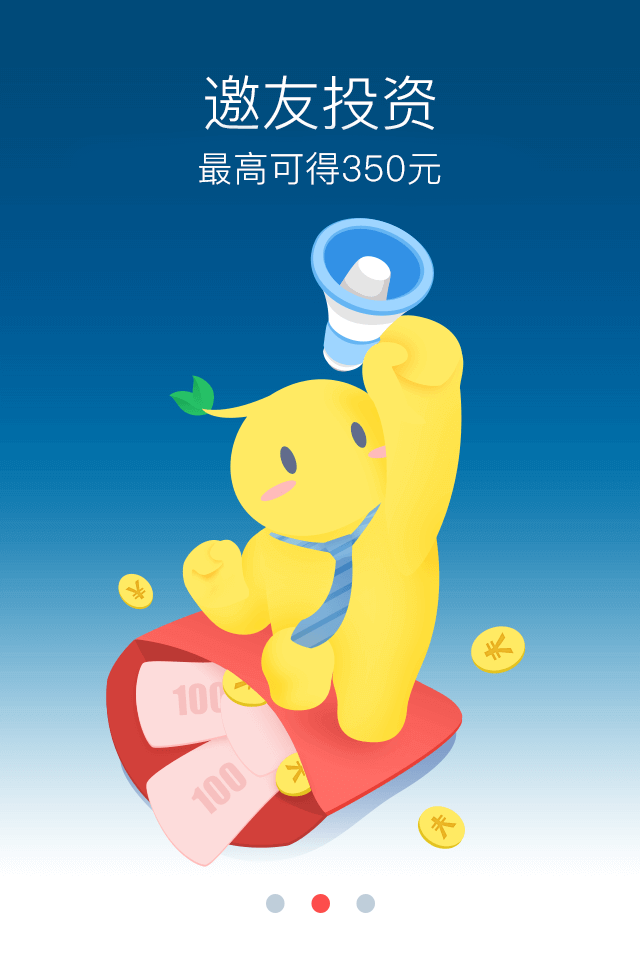
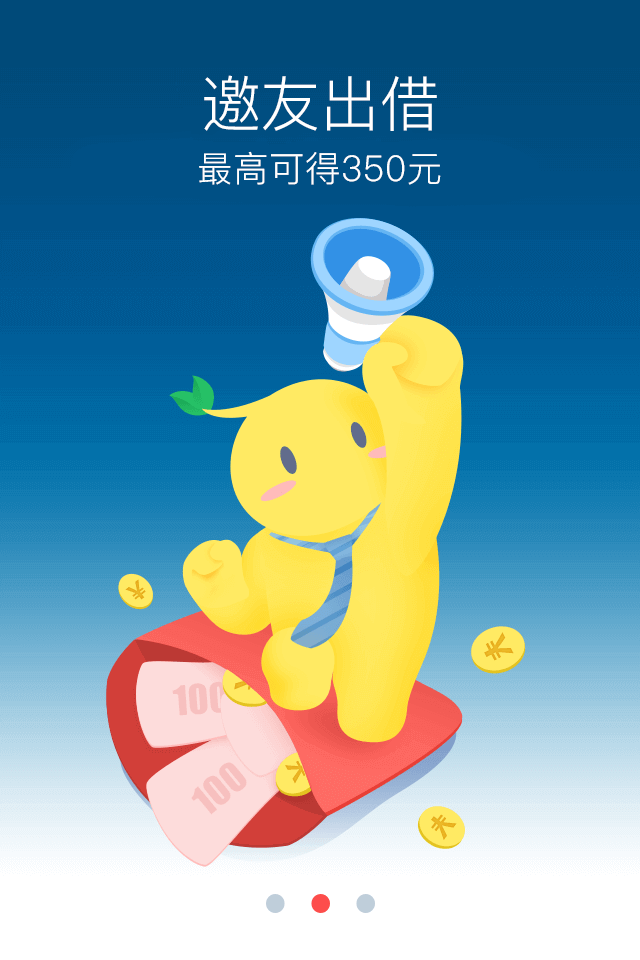
微金 使用优惠券  计算器 修改文案  以及修改引导页第二张

Changed region(s): [[0.4688, 0.0625, 0.6875, 0.1562], [0.3125, 0.0625, 0.4062, 0.1562], [0.4375, 0.0625, 0.4688, 0.125]]

diff --git a/JRGC/BidViewController/UCFSelectPayBackController.m b/JRGC/BidViewController/UCFSelectPayBackController.m
@@ -126,6 +126,7 @@
     self.navigationItem.titleView = _segmentedCtrl;
     
     headView = [[CoupleHeadView alloc] initWithFrame:CGRectMake(0, 0, ScreenWidth, 162.0f)];
+    headView.accoutType = self.accoutType; 
     headView.backgroundColor = [UIColor whiteColor];
     headView.delegate = self;
     headView.inputMoneyTextFieldLable.delegate = self;
@@ -189,7 +190,12 @@
 - (void)changeFootViewShow
 {
     if (self.listType == 1) {
+        
         NSString *showStr = @"投资按月/季等额还款项目，最终返息获得工豆需要乘以0.56。0.56为借款方占用投资方自己的使用率";
+        if (self.accoutType == SelectAccoutTypeP2P)
+        {
+            showStr = @"出借按月/季等额还款项目，最终返息获得工豆需要乘以0.56。0.56为借款方占用出借方自己的使用率";
+        }
         CGSize size = [Common getStrHeightWithStr:showStr AndStrFont:13 AndWidth:ScreenWidth - 30];
         slectView.keYongBaseView.frame = CGRectMake(0, 0, ScreenWidth, 40 + size.height);
         self.beansTableView.frame = CGRectMake(ScreenWidth, 0, ScreenWidth, ScreenHeight - 64 - 162 - CGRectGetHeight(slectView.frame));
@@ -201,7 +207,7 @@
 
         slectView.showNumSelectLabe.textAlignment = NSTextAlignmentLeft;
         slectView.showNumSelectLabe.frame = CGRectMake(15, 10, ScreenWidth - 30, 15);
-        slectView.showNumSelectLabe.text = @"投资¥0.00，可返息工豆¥0.00";
+        slectView.showNumSelectLabe.text =  self.accoutType == SelectAccoutTypeP2P ? @"出借¥0.00，可返息工豆¥0.00": @"投资¥0.00，可返息工豆¥0.00";
         slectView.showNumTipLab.frame = CGRectMake(15, CGRectGetMaxY(slectView.showNumSelectLabe.frame) + 5 , ScreenWidth - 30, size.height);
         slectView.showNumTipLab.text = showStr;
         slectView.sureBtn.frame = CGRectMake(15, CGRectGetMaxY(slectView.keYongBaseView.frame) + 10, ScreenWidth - 30, 37);
@@ -327,6 +333,7 @@
 }
 - (BOOL)checkIsLegal
 {
+    NSString *isP2PTipStr =  self.accoutType == SelectAccoutTypeP2P  ? @"出借":@"投资";
     if (self.listType == 1) {
         //投资金额
         NSString *couStr = [NSString stringWithFormat:@"%.2f",self.interestPrdaimSum];
@@ -338,9 +345,9 @@
             headView.needsInvestLabel.textColor = [UIColor whiteColor];
             slectView.showNumSelectLabe.textColor = UIColorWithRGB(0x999999);
             NSString *returnMoney = (self.beansSelectArray.count == 0 ? @"0.00" : [NSString stringWithFormat:@"%.2lf",self.interestSum]);
-            NSString *totalStr = [NSString stringWithFormat:@"投资 ¥%@,可返息工豆 ¥%@",[UCFToolsMehod AddComma:[NSString stringWithFormat:@"%.2lf",self.touZiMoney]],[UCFToolsMehod AddComma:returnMoney]];
+            NSString *totalStr = [NSString stringWithFormat:@"%@ ¥%@,可返息工豆 ¥%@",isP2PTipStr,[UCFToolsMehod AddComma:[NSString stringWithFormat:@"%.2lf",self.touZiMoney]],[UCFToolsMehod AddComma:returnMoney]];
             slectView.showNumSelectLabe.text = totalStr;
-            NSRange range1 = [totalStr rangeOfString:[NSString stringWithFormat:@"投资 ¥%@",[UCFToolsMehod AddComma:[NSString stringWithFormat:@"%.2lf",self.touZiMoney]]]];
+            NSRange range1 = [totalStr rangeOfString:[NSString stringWithFormat:@"%@ ¥%@",isP2PTipStr,[UCFToolsMehod AddComma:[NSString stringWithFormat:@"%.2lf",self.touZiMoney]]]];
             range1.location +=3;
             range1.length -= 3;
             NSRange range2 = [totalStr rangeOfString:[NSString stringWithFormat:@"工豆 ¥%@",[UCFToolsMehod AddComma:returnMoney]]];
@@ -356,7 +363,7 @@
         } else {
             headView.needsInvestLabel.textColor = UIColorWithRGB(0xf03b43);
             slectView.showNumSelectLabe.textColor = UIColorWithRGB(0xf03b43);
-            slectView.showNumSelectLabe.text = [NSString stringWithFormat:@"需投资金额不能大于可投金额!"];
+            slectView.showNumSelectLabe.text = [NSString stringWithFormat:@"需%@金额不能大于可投金额!",isP2PTipStr];
             return YES;
         }
     } else {
@@ -396,7 +403,7 @@
         } else {
             headView.needsInvestLabel.textColor = UIColorWithRGB(0xf03b43);
             slectView.showNumSelectLabe.textColor = UIColorWithRGB(0xf03b43);
-            slectView.showNumSelectLabe.text = [NSString stringWithFormat:@"需投资金额不能大于可投金额!"];
+            slectView.showNumSelectLabe.text = [NSString stringWithFormat:@"需%@金额不能大于可投金额!",isP2PTipStr];
             return YES;
         }
     }
@@ -513,6 +520,7 @@
             cell = [[SelectCoupleCell  alloc] initWithStyle:UITableViewCellStyleDefault reuseIdentifier:cellStr1];
             cell.selectionStyle = UITableViewCellSelectionStyleBlue;
         }
+        cell.accoutType = self.accoutType;
         cell.listType = 1;
         cell.selectedBtn.tag = indexPath.row;
         NSDictionary *dict = [self.beansArray objectAtIndex:indexPath.row];
@@ -534,6 +542,7 @@
             cell = [[SelectCoupleCell  alloc] initWithStyle:UITableViewCellStyleDefault reuseIdentifier:cellStr2];
             cell.selectionStyle = UITableViewCellSelectionStyleNone;
         }
+        cell.accoutType = self.accoutType;
         cell.listType = 0;
         cell.selectedBtn.tag = indexPath.row;
         NSDictionary *dict = [self.youHuiArray objectAtIndex:indexPath.row];
@@ -585,9 +594,13 @@
         [[NetworkModule sharedNetworkModule] postReq:strParameters tag:kSXtagSelectBeansInterest owner:self Type:self.accoutType];
     }
 }
+-(void)beginPost:(kSXTag)tag
+{
+     [MBProgressHUD showHUDAddedTo:self.view animated:YES];
+}
 - (void)endPost:(id)result tag:(NSNumber *)tag
 {
-//    [MBProgressHUD hideAllHUDsForView:self.view animated:YES];
+    [MBProgressHUD hideAllHUDsForView:self.view animated:YES];
     if(tag.intValue == kSXtagSelectBeanRecord)
     {
         [self.youhuiTableView.header endRefreshing];

diff --git a/JRGC/BidViewController/CoupleHeadView.m b/JRGC/BidViewController/CoupleHeadView.m
@@ -25,14 +25,14 @@
     headBaseView.backgroundColor = UIColorWithRGB(0x5b6993);
     [self addSubview:headBaseView];
     
-    UILabel *needInvestMoney = [[UILabel alloc] init];
-    needInvestMoney.frame = CGRectMake(0, 15, ScreenWidth/2, 14.0f);
-    needInvestMoney.textAlignment = NSTextAlignmentCenter;
-    needInvestMoney.textColor = [UIColor whiteColor];
-    needInvestMoney.font = [UIFont systemFontOfSize:14.0f];
-    needInvestMoney.text = @"需投资金额";
-    needInvestMoney.backgroundColor = [UIColor clearColor];
-    [headBaseView addSubview:needInvestMoney];
+    _needInvestMoney = [[UILabel alloc] init];
+    _needInvestMoney.frame = CGRectMake(0, 15, ScreenWidth/2, 14.0f);
+    _needInvestMoney.textAlignment = NSTextAlignmentCenter;
+    _needInvestMoney.textColor = [UIColor whiteColor];
+    _needInvestMoney.font = [UIFont systemFontOfSize:14.0f];
+    _needInvestMoney.text = _accoutType == SelectAccoutTypeP2P ?@"需出借金额": @"需投资金额";
+    _needInvestMoney.backgroundColor = [UIColor clearColor];
+    [headBaseView addSubview:_needInvestMoney];
     
     UILabel *canInvestMoney = [[UILabel alloc] init];
     canInvestMoney.frame = CGRectMake(ScreenWidth/2, 15, ScreenWidth/2, 14.0f);
@@ -117,6 +117,12 @@
     _allTouziBtn.titleLabel.font = [UIFont boldSystemFontOfSize:15.0f];
     [self addSubview:_allTouziBtn];
 }
+- (void)layoutSubviews
+{
+    [super layoutSubviews];
+    _needInvestMoney.text = _accoutType == SelectAccoutTypeP2P ? @"需出借金额": @"需投资金额";
+}
+
 - (void)gotoPay:(UIButton *)button
 {
     if (self.delegate && [self.delegate respondsToSelector:@selector(allInvestOrGotoPay:)]) {

diff --git a/JRGC/BidViewController/SelectCoupleCell.m b/JRGC/BidViewController/SelectCoupleCell.m
@@ -113,6 +113,7 @@
 }
 - (void)layoutSubviews
 {
+    NSString  *titleStr =  self.accoutType == SelectAccoutTypeP2P ? @"出借":@"投资";
     NSInteger statue = [[self.dataDict objectForKey:@"status"]integerValue];
     if (statue == 0 || statue == 2)
     {
@@ -140,7 +141,8 @@
                 } else {
                     _baseImageView.image = [UIImage imageNamed:@"invest_bg_coupon_common.png"];
                 }
-                _investLimitLab.text = [NSString stringWithFormat:@"投资期限≥%ld天可用",(long)inverstPeriod];
+               
+                _investLimitLab.text = [NSString stringWithFormat:@"%@期限≥%ld天可用",titleStr,(long)inverstPeriod];
                 _investLimitLab.textColor = UIColorWithRGB(0x999999);
             }
 
@@ -176,7 +178,7 @@
             _moneyLabel.attributedText = attributeMoneyString;
         }
         NSString *limte = [UCFToolsMehod AddComma:[NSString stringWithFormat:@"%d",[[self.dataDict objectForKey:@"investMultip"] intValue]]];
-        _useLimtLabel.text = [NSString stringWithFormat:@"投资¥%@可用",limte];
+        _useLimtLabel.text = [NSString stringWithFormat:@"%@¥%@可用",titleStr,limte];
         NSString *sourStr =[NSString stringWithFormat:@"%@",[self.dataDict objectForKey:@"remark"]];
         _sourceLabel.text = sourStr;
         NSString *endTime = [NSString stringWithFormat:@"有效期 %@",[self.dataDict objectForKey:@"overdueTime"]];

diff --git a/JRGC/BidViewController/CalculatorView.m b/JRGC/BidViewController/CalculatorView.m
@@ -201,6 +201,14 @@
     [calculatorBtn addTarget:self action:@selector(calculateBegin:) forControlEvents:UIControlEventTouchUpInside];
     [baseView addSubview:calculatorBtn];
 }
+-(void)layoutSubviews
+{
+    [super layoutSubviews];
+     jrgcProfitLab.text =  _accoutType == SelectAccoutTypeP2P ? @"预期利息(元)" :@"预期收益(元)";
+    calculatorBtn.titleLabel.font = [UIFont systemFontOfSize:14.0f];
+    NSString *calculatorBtnStr  =  _accoutType == SelectAccoutTypeP2P ?@"计算预期利息" :@"计算预期收益";
+    [calculatorBtn setTitle:calculatorBtnStr forState:UIControlStateNormal];
+}
 /**
  *  计算收益按钮触发事件
  *

diff --git a/JRGC/BidViewController/CoupleHeadView.h b/JRGC/BidViewController/CoupleHeadView.h
@@ -20,8 +20,11 @@
 @property(nonatomic, strong)UILabel     *keYongTipLabel;
 @property(nonatomic, strong)UILabel     *KeYongMoneyLabel;
 @property(nonatomic, strong)UILabel     *totalKeYongTipLabel;
+@property(nonatomic, strong)UILabel     *needInvestMoney;
 @property(nonatomic, strong)UIView      *inputBaseView;
 @property(nonatomic, strong)UITextField      *inputMoneyTextFieldLable;
 @property(nonatomic, strong)UIButton         *allTouziBtn;
 @property(nonatomic, assign)id<CoupleHeadViewDelegate> delegate;
+
+@property(assign,nonatomic) SelectAccoutType accoutType;//选择的账户 默认是P2P账户 hqy添加
 @end

diff --git a/JRGC/Setting/TopUpAndCash(充值和提现)/UCFCashViewController.m b/JRGC/Setting/TopUpAndCash(充值和提现)/UCFCashViewController.m
@@ -141,6 +141,7 @@
     UITapGestureRecognizer *tap1 = [[UITapGestureRecognizer alloc] initWithTarget:self action:@selector(openURL)];
     tap1.delegate = self;
     [_phoneLabel addGestureRecognizer:tap1];
+    _phoneLabel.text = [NSString stringWithFormat:@"如果您绑定的银行卡暂不支持手机快捷支付请联系客服%@",_telServiceNo];
     [_phoneLabel setFontColor:UIColorWithRGB(0x4aa1f9) string:_telServiceNo];
     //[_warnSendLabel setHidden:YES];
     

diff --git a/JRGC/Setting/MyInvest(我的投资)/MyViewController.m b/JRGC/Setting/MyInvest(我的投资)/MyViewController.m
@@ -55,6 +55,7 @@
     }
     else if (self.accoutType == SelectAccoutTypeHoner) {
         _segmentedCtrl = [[UISegmentedControl alloc]initWithItems:@[@"我的项目", titleStr]];
+        self.titleDescribeLabel.text = @"累计收益";
     }
 //    _segmentedCtrl = [[UISegmentedControl alloc]initWithItems:@[@"我的项目",@"批量项目",titleStr]];
     DBLOG(@"%@",NSStringFromCGRect(self.view.frame));

diff --git a/JRGC/BidViewController/SelectCoupleCell.h b/JRGC/BidViewController/SelectCoupleCell.h
@@ -26,4 +26,6 @@
 @property(strong, nonatomic)NSDictionary    *dataDict;
 @property (nonatomic, assign)id <SelectCoupleCellDelegate> delegate;
 @property (nonatomic, assign) NSInteger   listType;
+
+@property(assign,nonatomic) SelectAccoutType accoutType;//选择的账户 默认是P2P账户 hqy添加
 @end
